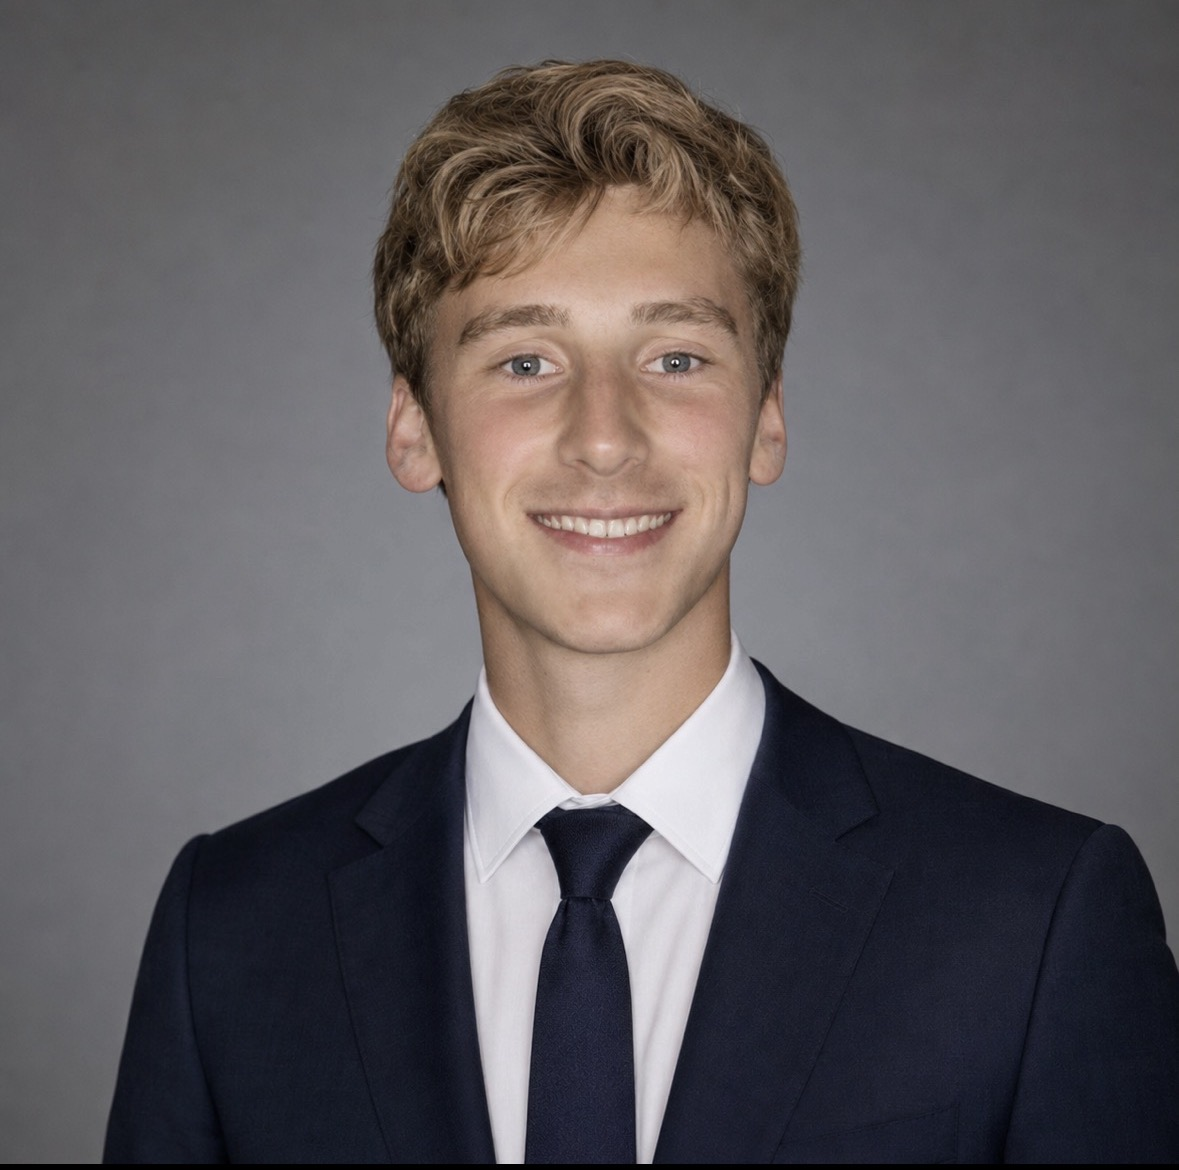
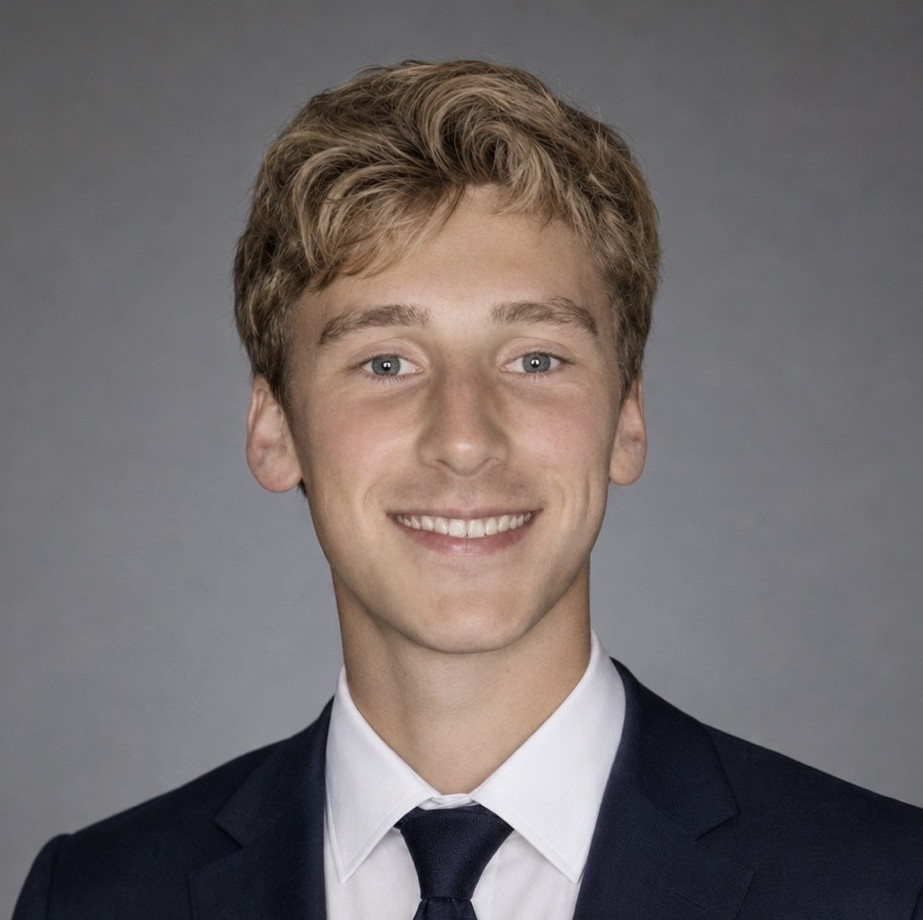
Rebuild home as a Substack-style feed, add app header
- Home is now a feed: featured post + up to 4 secondary links, then
  a Latest list with a sidebar subscribe card, matching the Josh
  Hou-style reference layout the user pointed to.
- New site-wide header: avatar, wordmark, Subscribe pill, and a
  Home/Archive/About tab bar with active-state underline.
- Widened the shared content column so Archive/post pages line up
  with the new wider header; reading text itself stays capped at
  640px for line length.
- Swap in the tighter-cropped headshot everywhere (favicon, header
  avatar, bio photo, subscribe-card avatar all share one file).

diff --git a/assets/css/style.css b/assets/css/style.css
@@ -43,56 +43,98 @@ a { color: inherit; }
 
 img { max-width: 100%; display: block; }
 
-/* ---------- Masthead ---------- */
+/* ---------- Site header ---------- */
 
-.masthead {
-  max-width: 720px;
-  margin: 0 auto;
-  padding: 56px 24px 28px;
-  display: flex;
-  flex-direction: column;
-  align-items: center;
-  gap: 14px;
-  text-align: center;
+.site-header {
+  flex-shrink: 0;
+  border-bottom: 1px solid var(--line);
 }
 
-.masthead-word {
+.site-header-bar {
+  max-width: 960px;
+  margin: 0 auto;
+  padding: 16px 24px;
+  display: flex;
+  align-items: center;
+  gap: 16px;
+}
+
+.site-header-avatar { flex: none; line-height: 0; }
+.site-header-avatar img {
+  width: 34px;
+  height: 34px;
+  border-radius: 50%;
+  object-fit: cover;
+  border: 1px solid var(--line);
+}
+
+.site-header-title {
+  flex: 1;
+  text-align: center;
   font-family: "Fraunces", Georgia, serif;
   font-style: italic;
   font-weight: 600;
-  font-size: 30px;
-  letter-spacing: 0.01em;
-  text-decoration: none;
+  font-size: 19px;
   color: var(--ink);
+  text-decoration: none;
 }
 
-.masthead-nav {
-  display: flex;
-  gap: 22px;
-}
-
-.masthead-nav a {
+.site-header-subscribe {
+  flex: none;
+  background: var(--accent);
+  color: var(--surface);
   font-family: "Archivo", sans-serif;
-  font-size: 11px;
+  font-size: 12.5px;
+  font-weight: 700;
+  padding: 9px 18px;
+  border-radius: 999px;
+  text-decoration: none;
+  white-space: nowrap;
+}
+.site-header-subscribe:hover { background: var(--ink); }
+
+.site-header-tabs {
+  max-width: 960px;
+  margin: 0 auto;
+  padding: 0 24px;
+  display: flex;
+  gap: 24px;
+  border-top: 1px solid var(--line);
+}
+
+.site-header-tabs a {
+  padding: 12px 0;
+  font-family: "Archivo", sans-serif;
+  font-size: 13px;
   font-weight: 600;
-  letter-spacing: 0.14em;
-  text-transform: uppercase;
+  letter-spacing: 0.03em;
   color: var(--muted);
   text-decoration: none;
-  padding-bottom: 2px;
-  border-bottom: 1px solid transparent;
+  border-bottom: 2px solid transparent;
 }
+.site-header-tabs a:hover { color: var(--ink); }
+.site-header-tabs a.is-active { color: var(--ink); border-bottom-color: var(--accent); }
 
-.masthead-nav a:hover { color: var(--ink); border-bottom-color: var(--accent); }
+@media (max-width: 480px) {
+  .site-header-bar { padding: 14px 16px; gap: 10px; }
+  .site-header-title { font-size: 16px; }
+  .site-header-subscribe { padding: 8px 14px; font-size: 11.5px; }
+  .site-header-tabs { gap: 18px; padding: 0 16px; }
+}
 
 /* ---------- Home / post list ---------- */
 
 main {
   flex: 1 0 auto;
-  max-width: 640px;
+  max-width: 760px;
   margin: 0 auto;
   width: 100%;
   padding: 0 24px 80px;
+}
+
+main .post-content,
+main .page-content {
+  max-width: 640px;
 }
 
 .home-tagline {
@@ -245,6 +287,113 @@ body.landing { padding: 0; }
   flex: 1 0 auto;
   display: flex;
   flex-direction: column;
+}
+
+/* ---------- Home feed ---------- */
+
+.home-feed {
+  max-width: 960px;
+  margin: 0 auto;
+  width: 100%;
+  padding: 40px 24px 0;
+}
+
+.feature {
+  display: grid;
+  grid-template-columns: 1.6fr 1fr;
+  gap: 48px;
+  padding-bottom: 40px;
+  border-bottom: 1px solid var(--line);
+}
+
+.feature-eyebrow {
+  display: block;
+  font-family: "Archivo", sans-serif;
+  font-size: 11px;
+  font-weight: 700;
+  letter-spacing: 0.12em;
+  text-transform: uppercase;
+  color: var(--accent);
+  margin: 0 0 14px;
+}
+
+.feature-title {
+  margin: 0 0 14px;
+  font-family: "Fraunces", Georgia, serif;
+  font-weight: 600;
+  font-size: 34px;
+  line-height: 1.15;
+  text-wrap: balance;
+}
+.feature-title a { text-decoration: none; color: var(--ink); }
+.feature-title a:hover { color: var(--accent); }
+
+.feature-excerpt {
+  margin: 0 0 16px;
+  font-size: 17px;
+  color: var(--muted);
+  max-width: 48ch;
+}
+
+.feature-meta {
+  font-family: "Archivo", sans-serif;
+  font-size: 11px;
+  font-weight: 600;
+  letter-spacing: 0.06em;
+  color: var(--muted);
+}
+
+.feature-list {
+  list-style: none;
+  margin: 0;
+  padding: 0;
+  display: flex;
+  flex-direction: column;
+}
+.feature-list li { padding: 16px 0; border-top: 1px solid var(--line); }
+.feature-list li:first-child { border-top: 0; padding-top: 4px; }
+.feature-list a {
+  display: block;
+  font-family: "Fraunces", Georgia, serif;
+  font-weight: 600;
+  font-size: 16px;
+  line-height: 1.35;
+  color: var(--ink);
+  text-decoration: none;
+  margin-bottom: 6px;
+}
+.feature-list a:hover { color: var(--accent); }
+.feature-list span {
+  font-family: "Archivo", sans-serif;
+  font-size: 10.5px;
+  font-weight: 600;
+  letter-spacing: 0.06em;
+  color: var(--muted);
+}
+
+.home-section-title {
+  font-family: "Archivo", sans-serif;
+  font-size: 12px;
+  font-weight: 700;
+  letter-spacing: 0.12em;
+  text-transform: uppercase;
+  color: var(--muted);
+  margin: 40px 0 20px;
+}
+
+.home-latest {
+  display: grid;
+  grid-template-columns: 1fr 300px;
+  gap: 48px;
+  padding-bottom: 56px;
+}
+
+.home-sidebar { padding-top: 40px; }
+.home-sidebar .subscribe-card { margin: 0; max-width: none; }
+
+@media (max-width: 760px) {
+  .feature, .home-latest { grid-template-columns: 1fr; }
+  .home-sidebar { padding-top: 0; }
 }
 
 .landing-eyebrow {

diff --git a/_layouts/home.html b/_layouts/home.html
@@ -5,9 +5,53 @@
 </head>
 <body class="landing">
   {% include nav.html %}
+
   <div class="landing-grow">
-    {% include landing-header.html %}
+    <div class="home-feed">
+      {% assign featured = site.posts.first %}
+      {% assign rest = site.posts | offset: 1 %}
+
+      <section class="feature">
+        <div class="feature-main">
+          <span class="feature-eyebrow">Latest</span>
+          <h1 class="feature-title"><a href="{{ featured.url | relative_url }}">{{ featured.title }}</a></h1>
+          {% if featured.excerpt %}<p class="feature-excerpt">{{ featured.excerpt | strip_html | truncate: 140 }}</p>{% endif %}
+          <span class="feature-meta">{{ featured.date | date: "%b %-d" }} &middot; {{ site.author | upcase }}</span>
+        </div>
+        <ul class="feature-list">
+          {% for post in rest limit: 4 %}
+          <li>
+            <a href="{{ post.url | relative_url }}">{{ post.title }}</a>
+            <span>{{ post.date | date: "%b %-d" }} &middot; {{ site.author | upcase }}</span>
+          </li>
+          {% endfor %}
+        </ul>
+      </section>
+
+      <section class="home-latest">
+        <div class="home-latest-main">
+          <h2 class="home-section-title">Latest</h2>
+          <ul class="post-list">
+            {% for post in site.posts %}
+            <li class="post-entry">
+              <span class="post-entry-meta">{{ post.date | date: "%b %-d, %Y" }}</span>
+              <h3 class="post-entry-title"><a href="{{ post.url | relative_url }}">{{ post.title }}</a></h3>
+              {% if post.excerpt %}<p class="post-entry-excerpt">{{ post.excerpt | strip_html | truncate: 160 }}</p>{% endif %}
+            </li>
+            {% endfor %}
+          </ul>
+        </div>
+        <aside class="home-sidebar">
+          {% include subscribe-card.html %}
+        </aside>
+      </section>
+    </div>
   </div>
+
   {% include landing-footer.html %}
+
+  <script src="{{ '/assets/js/subscribe.js' | relative_url }}"
+    data-supabase-url="{{ site.supabase_url }}"
+    data-supabase-key="{{ site.supabase_publishable_key }}"></script>
 </body>
 </html>

diff --git a/_includes/nav.html b/_includes/nav.html
@@ -1,8 +1,14 @@
-<header class="masthead">
-  <a class="masthead-word" href="{{ '/' | relative_url }}">{{ site.title }}</a>
-  <nav class="masthead-nav">
-    <a href="{{ '/' | relative_url }}">Home</a>
-    <a href="{{ '/blog/' | relative_url }}">Archive</a>
-    <a href="{{ '/about/' | relative_url }}">About</a>
+<header class="site-header">
+  <div class="site-header-bar">
+    <a class="site-header-avatar" href="{{ '/' | relative_url }}">
+      <img src="{{ '/assets/img/henry-portrait.jpg' | relative_url }}" alt="{{ site.author }}">
+    </a>
+    <a class="site-header-title" href="{{ '/' | relative_url }}">{{ site.title }}</a>
+    <a class="site-header-subscribe" href="#subscribe">Subscribe</a>
+  </div>
+  <nav class="site-header-tabs">
+    <a href="{{ '/' | relative_url }}" class="{% if page.url == '/' %}is-active{% endif %}">Home</a>
+    <a href="{{ '/blog/' | relative_url }}" class="{% if page.url == '/blog/' or page.layout == 'post' %}is-active{% endif %}">Archive</a>
+    <a href="{{ '/about/' | relative_url }}" class="{% if page.url == '/about/' %}is-active{% endif %}">About</a>
   </nav>
 </header>
